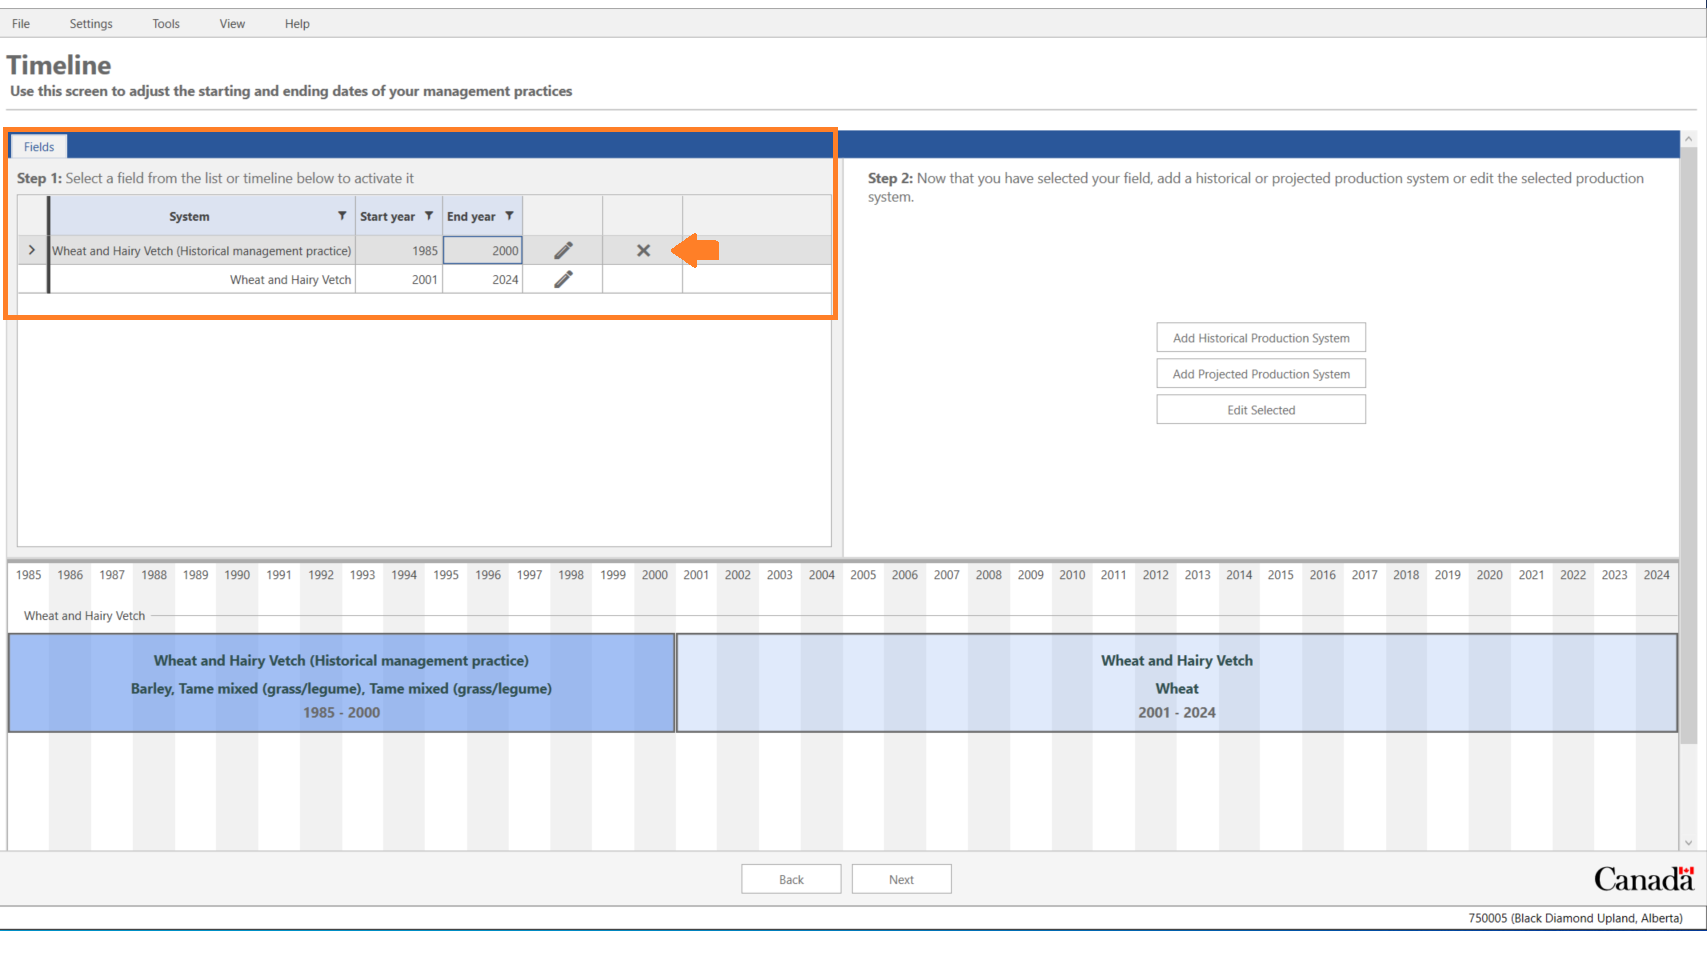
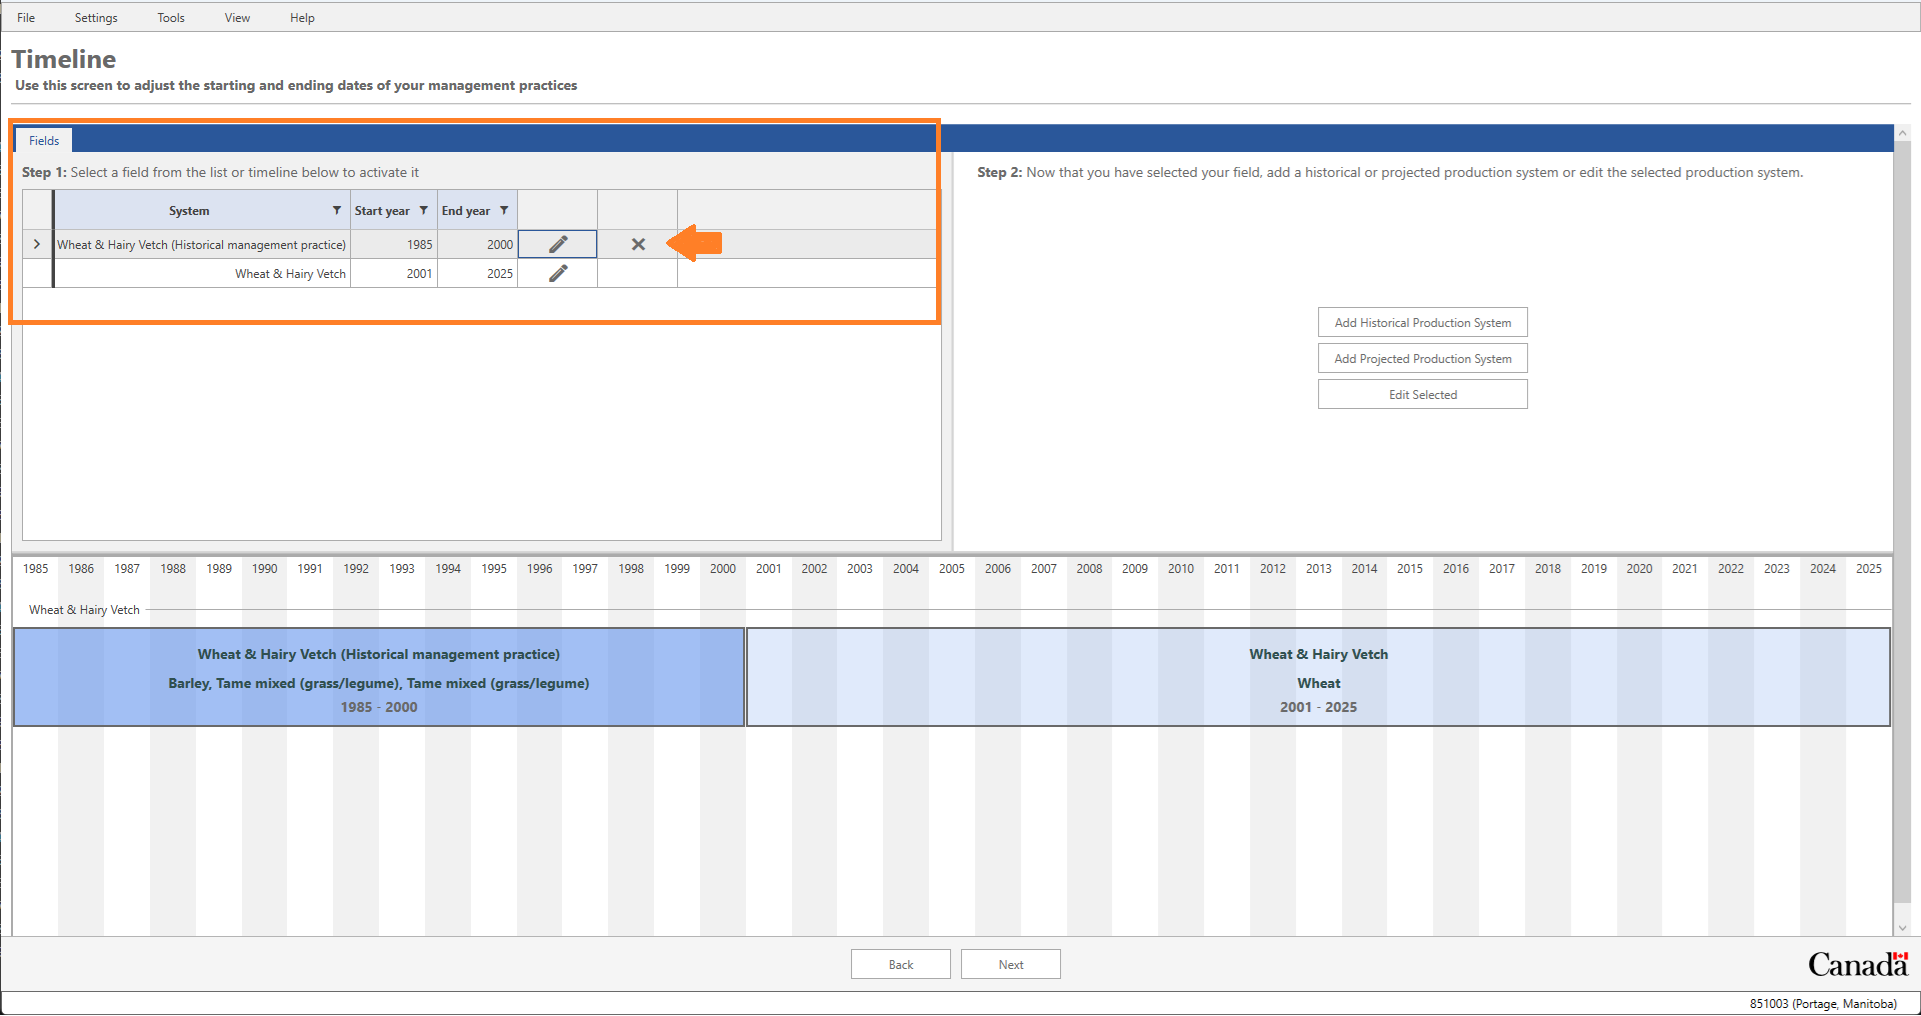
Update dates in Poultry guide

diff --git a/H.Content/Documentation/Poultry Training Guide/Holos_4_Training_Guide_Poultry.md b/H.Content/Documentation/Poultry Training Guide/Holos_4_Training_Guide_Poultry.md
@@ -14,7 +14,7 @@ Please note that Holos 4 can be installed on a Microsoft Windows PC only. Mac OS
 
 Launch Holos by double-clicking on the Holos desktop icon. Holos will ask the user to open an existing farm, create a new farm, or import a saved farm file (Figure 1). If there is already a saved farm in the system, the user can click **Open**. If there are no saved farms in the system, Holos will ask the user if they want to create a **New** farm or **Import** a saved farm file (i.e., a .json file). If the user creates a new farm, they are asked for the farm name and an optional comment (Figure 2).  
 
-Enter **"Holos 2024"** as the Name and **"Training Version"** in the Comments.  Click **OK** to proceed to the next screen.
+Enter **"Holos 2025"** as the Name and **"Training Version"** in the Comments.  Click **OK** to proceed to the next screen.
 
 Ensure **"Metric"** is selected as the unit of measurement type and then click the **Next** button at the bottom of the screen (Figure 3). 
 
@@ -156,7 +156,7 @@ Our first field on the farm will grow continuous wheat with a cover crop of hair
 
 1. Rename the field to “**Wheat & Hairy Vetch**” in the **Step 1** section of the screen. Change the area of the field to **"18 ha"**.
 
-2. Leave the start and end years as **"1985"** and **"2024"**, respectively.
+2. Leave the start and end years as **"1985"** and **"2025"**, respectively.
 
 3. Select "**Wheat**" as the main crop and "**Hairy Vetch**" as the cover crop in **Step 2**.
 
@@ -184,7 +184,7 @@ Our first field on the farm will grow continuous wheat with a cover crop of hair
 <p align="center">
     <img src="../../Images/PoultryGuide/en/Figure11.gif" alt="Figure 11" width="950"/>
     <br>
-    <em>Figure 11: Adding fertilizer to a field (Updated for 2025).</em>
+    <em>Figure 11: Adding fertilizer to a field.</em>
 </p> 
 
 <br>
@@ -216,7 +216,7 @@ Adding animal components follows the same approach that was used for the land ma
 <p align="center">
     <img src="../../Images/PoultryGuide/en/Figure12.gif" alt="Figure 12" width="950"/>
     <br>
-    <em>Figure 12: The Poultry Components (Updated for 2025).</em>
+    <em>Figure 12: The Poultry Components.</em>
 </p>
 
 <br>
@@ -234,7 +234,7 @@ The poultry meat production farm is **divided into three management (production)
 
 2. Click the management period “**Brooding stage**” in **Step 2** to activate that management period.
 
-3. Ensure “**January 1, 2024**” appears as the start date and “**January 15, 2024**” as the end date. These dates are set as the defaults.
+3. Ensure “**January 1, 2025**” appears as the start date and “**January 15, 2025**” as the end date. These dates are set as the defaults.
    
 4. Keep the default start and end dates for the two "**Rearing stage**" management periods. Thus, all three management periods will be 14 days in length. 
 
@@ -252,7 +252,7 @@ The poultry meat production farm is **divided into three management (production)
 
 ## Entering 'Chicken Egg Production' Information
 
-Click on the "**Hens**" row in the animal group section in **Step 1**. As egg-laying occurs year round, there is only a single 358-day management period for hens that starts on **"January 1, 2024"** and ends on **"December 23, 2024"**.
+Click on the "**Hens**" row in the animal group section in **Step 1**. As egg-laying occurs year round, there is only a single 358-day management period for hens that starts on **"January 1, 2025"** and ends on **"December 25, 2025"**.
 
 * **General tab:**
 
@@ -274,7 +274,7 @@ We can enter data related to the number of animals, manure system, and housing t
 
 2. Click the management period **"Brooding stage"** in **Step 2** to activate that management period.
 
-3. Ensure **"January 1, 2024"** appears as the start date and **"January 15, 2024"** as the end date. These dates are set as the defaults.
+3. Ensure **"January 1, 2025"** appears as the start date and **"January 15, 2025"** as the end date. These dates are set as the defaults.
 
 * **General tab:**:
     * Enter **"150,000"** as the number of animals. 
@@ -285,7 +285,7 @@ We can enter data related to the number of animals, manure system, and housing t
 * **Manure tab**:
     * Leave **"Solid storage (with or without litter)"** as the default manure handling system.
 
-Highlight the **"Rearing stage"** management period and set the start date to **"January 16, 2024"** and the end date to **"May 14, 2024"**; enter the same animal number, housing and manure management information as for the **"Brooding stage"**.
+Highlight the **"Rearing stage"** management period and set the start date to **"January 16, 2025"** and the end date to **"May 15, 2025"**; enter the same animal number, housing and manure management information as for the **"Brooding stage"**.
 
 
 ### Adding a Manure Application to the Wheat Field
@@ -295,7 +295,7 @@ In Holos, the user can apply livestock manure to a field using either manure pro
 1. Select the **Wheat & Hairy Vetch** field from the list of components added to our farm.
 
 2. Click on the **Manure** tab and then click the **Add Manure Application** button.
-    * Select **"April 30, 2024"** as the date.
+    * Select **"April 30, 2025"** as the date.
     * Select **"Livestock"** as the origin of manure.
     * Select **"Poultry"** as the manure type.
     * Select **"Solid storage (with or without litter)"** as the manure handling system.
